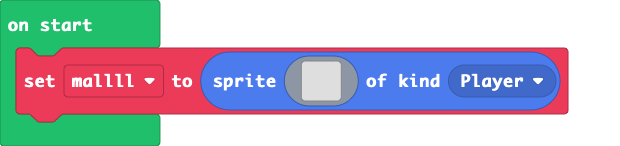
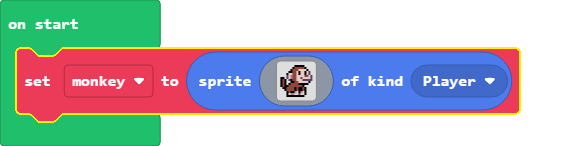
Update main.blocks, main.ts

diff --git a/main.ts b/main.ts
@@ -1,18 +1,18 @@
-let mallll = sprites.create(img`
-    . . . . . . . . . . . . . . . . 
-    . . . . . . . . . . . . . . . . 
-    . . . . . . . . . . . . . . . . 
-    . . . . . . . . . . . . . . . . 
-    . . . . . . . . . . . . . . . . 
-    . . . . . . . . . . . . . . . . 
-    . . . . . . . . . . . . . . . . 
-    . . . . . . . . . . . . . . . . 
-    . . . . . . . . . . . . . . . . 
-    . . . . . . . . . . . . . . . . 
-    . . . . . . . . . . . . . . . . 
-    . . . . . . . . . . . . . . . . 
-    . . . . . . . . . . . . . . . . 
-    . . . . . . . . . . . . . . . . 
-    . . . . . . . . . . . . . . . . 
-    . . . . . . . . . . . . . . . . 
+let monkey = sprites.create(img`
+    . . . . . . . f f f f f . . . . 
+    . . . . . . f e e e e e f . . . 
+    . . . . . f e e e d d d d f . . 
+    . . . . f f e e d f d d f d c . 
+    . . . f d d e e d f d d f d c . 
+    . . . c d b e e d d d d e e d c 
+    f f . c d b e e d d c d d d d c 
+    f e f . c f e e d d d c c c c c 
+    f e f . . f f e e d d d d d f . 
+    f e f . f e e e e f f f f f . . 
+    f e f f e e e e e e e f . . . . 
+    . f f e e e e f e f f e f . . . 
+    . . f e e e e f e f f e f . . . 
+    . . . f e f f b d f b d f . . . 
+    . . . f d b b d d c d d f . . . 
+    . . . f f f f f f f f f . . . . 
     `, SpriteKind.Player)
